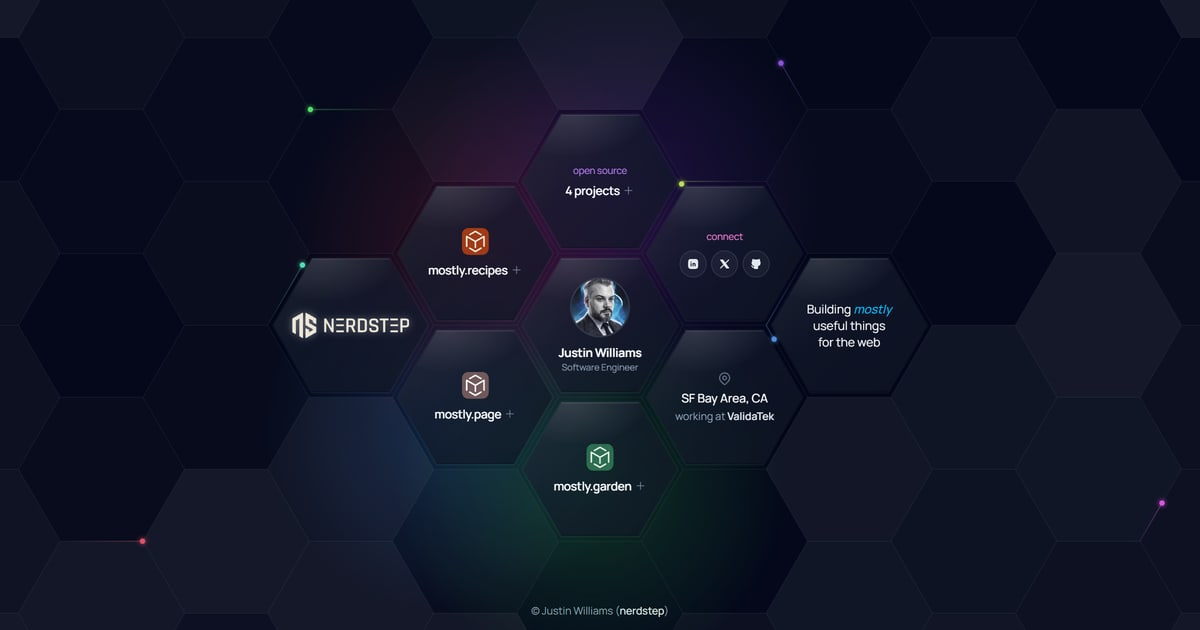
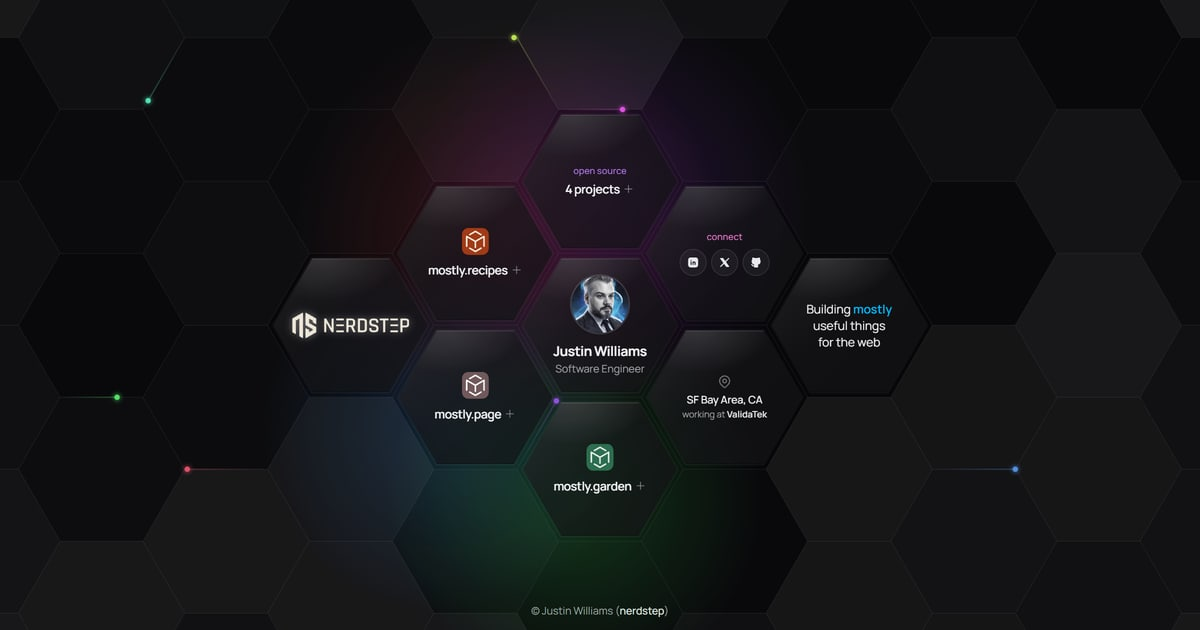
feat: pivot from slate blue to a charcoal palette
- Neutrals become near-black charcoal with a whisper of cool (hue 270,
  chroma ~0.005): page #070709, raised surfaces #101013, off-white text.
  Project hues now carry all of the color, and muted text on drawers
  rises from 6.8:1 to 7.6:1.
- Hex glass fill and the avatar border go neutral.
- Theme color, manifest colors, and the icon tiles follow the new page
  color; the social card is recaptured.
- shadcn baseColor moves from slate to neutral so new components match.

diff --git a/src/styles/index.css b/src/styles/index.css
@@ -99,37 +99,43 @@
 :root {
   color-scheme: dark;
   --radius: 0.625rem;
-  --background: oklch(0.129 0.042 264.695);
-  --foreground: oklch(0.984 0.003 247.858);
-  --card: oklch(0.208 0.042 265.755);
-  --card-foreground: oklch(0.984 0.003 247.858);
-  --popover: oklch(0.208 0.042 265.755);
-  --popover-foreground: oklch(0.984 0.003 247.858);
-  --primary: oklch(0.929 0.013 255.508);
-  --primary-foreground: oklch(0.208 0.042 265.755);
-  --secondary: oklch(0.279 0.041 260.031);
-  --secondary-foreground: oklch(0.984 0.003 247.858);
-  --muted: oklch(0.279 0.041 260.031);
-  --muted-foreground: oklch(0.704 0.04 256.788);
-  --accent: oklch(0.279 0.041 260.031);
-  --accent-foreground: oklch(0.984 0.003 247.858);
+  /*
+   * Charcoal: near-black neutrals with a whisper of cool (hue 270, chroma
+   * ~0.005), so they read as charcoal rather than flat gray or slate blue and
+   * the project hues carry the color. Surfaces step up in lightness for
+   * elevation; text is off-white to avoid halation on dark screens.
+   */
+  --background: oklch(0.13 0.004 270);
+  --foreground: oklch(0.965 0.003 270);
+  --card: oklch(0.175 0.005 270);
+  --card-foreground: oklch(0.965 0.003 270);
+  --popover: oklch(0.175 0.005 270);
+  --popover-foreground: oklch(0.965 0.003 270);
+  --primary: oklch(0.93 0.004 270);
+  --primary-foreground: oklch(0.175 0.005 270);
+  --secondary: oklch(0.245 0.006 270);
+  --secondary-foreground: oklch(0.965 0.003 270);
+  --muted: oklch(0.245 0.006 270);
+  --muted-foreground: oklch(0.72 0.008 270);
+  --accent: oklch(0.245 0.006 270);
+  --accent-foreground: oklch(0.965 0.003 270);
   --destructive: oklch(0.704 0.191 22.216);
-  --border: oklch(1 0 0 / 10%);
-  --input: oklch(1 0 0 / 15%);
-  --ring: oklch(0.551 0.027 264.364);
+  --border: oklch(1 0 0 / 9%);
+  --input: oklch(1 0 0 / 14%);
+  --ring: oklch(0.56 0.01 270);
   --chart-1: oklch(0.488 0.243 264.376);
   --chart-2: oklch(0.696 0.17 162.48);
   --chart-3: oklch(0.769 0.188 70.08);
   --chart-4: oklch(0.627 0.265 303.9);
   --chart-5: oklch(0.645 0.246 16.439);
-  --sidebar: oklch(0.208 0.042 265.755);
-  --sidebar-foreground: oklch(0.984 0.003 247.858);
+  --sidebar: oklch(0.175 0.005 270);
+  --sidebar-foreground: oklch(0.965 0.003 270);
   --sidebar-primary: oklch(0.488 0.243 264.376);
-  --sidebar-primary-foreground: oklch(0.984 0.003 247.858);
-  --sidebar-accent: oklch(0.279 0.041 260.031);
-  --sidebar-accent-foreground: oklch(0.984 0.003 247.858);
-  --sidebar-border: oklch(1 0 0 / 10%);
-  --sidebar-ring: oklch(0.551 0.027 264.364);
+  --sidebar-primary-foreground: oklch(0.965 0.003 270);
+  --sidebar-accent: oklch(0.245 0.006 270);
+  --sidebar-accent-foreground: oklch(0.965 0.003 270);
+  --sidebar-border: oklch(1 0 0 / 9%);
+  --sidebar-ring: oklch(0.56 0.01 270);
 }
 
 @theme inline {

diff --git a/src/components/honeycomb/cells.tsx b/src/components/honeycomb/cells.tsx
@@ -19,7 +19,7 @@ function IntroHex({ hue, entrance }: ContentCellProps) {
       <img
         alt="profile"
         // Smaller below 360px so the role stays clear of the hex's tapered bottom.
-        className="size-16 rounded-full border-2 border-gray-600/50 min-[360px]:size-20"
+        className="size-16 rounded-full border-2 border-white/15 min-[360px]:size-20"
         height={80}
         src="/img/profile-sm.jpg"
         width={80}

diff --git a/src/lib/seo.ts b/src/lib/seo.ts
@@ -16,8 +16,8 @@ const buildSeoHead = createSeoBuilder({
   locale: 'en_US',
   siteName: siteConfig.name,
   siteUrl: siteConfig.url,
-  // The page background (slate-950); the site is dark-only.
-  themeColor: '#020617',
+  // The page background (charcoal, `--background`); the site is dark-only.
+  themeColor: '#070709',
   twitterCreator: `@${siteConfig.social.x}`,
   twitterSite: `@${siteConfig.social.x}`,
 })

diff --git a/src/components/honeycomb/hex-cell.tsx b/src/components/honeycomb/hex-cell.tsx
@@ -56,7 +56,7 @@ export function HexFill() {
     <>
       <span
         aria-hidden
-        className="absolute inset-0.5 bg-[oklch(0.2_0.038_264.7/0.84)] lg:bg-[oklch(0.2_0.038_264.7/0.64)]"
+        className="absolute inset-0.5 bg-[oklch(0.18_0.005_270/0.84)] lg:bg-[oklch(0.18_0.005_270/0.64)]"
         style={{ clipPath: HEX_CLIP }}
       />
       <span
